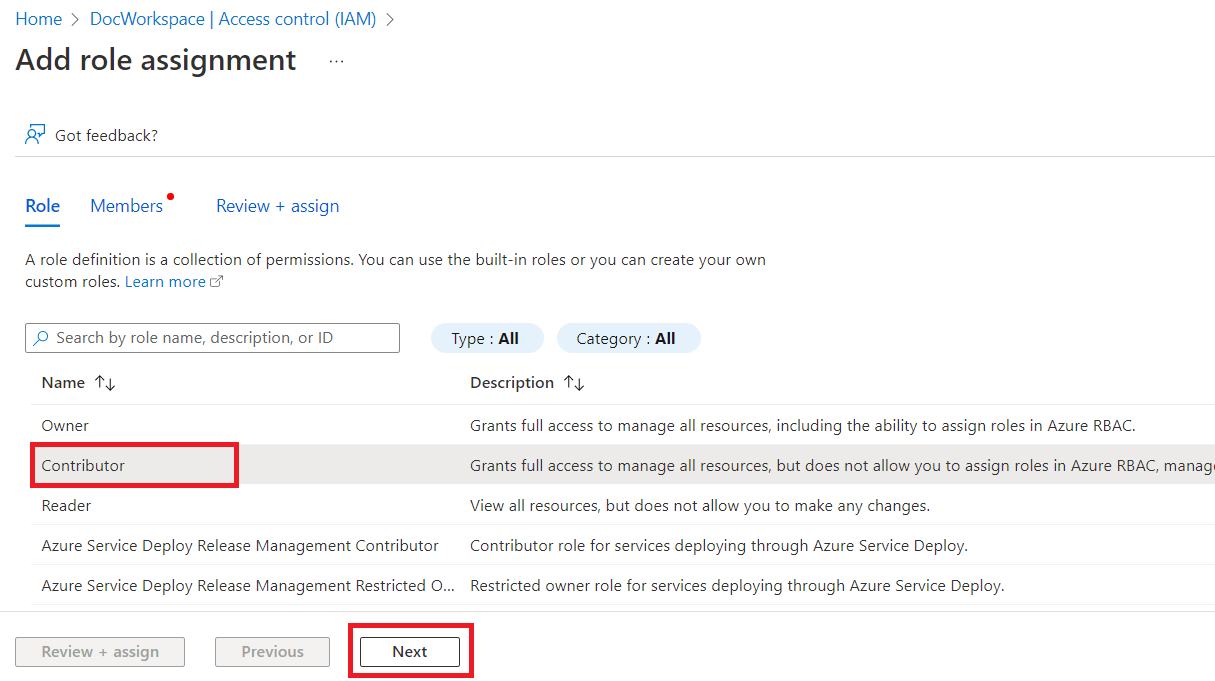
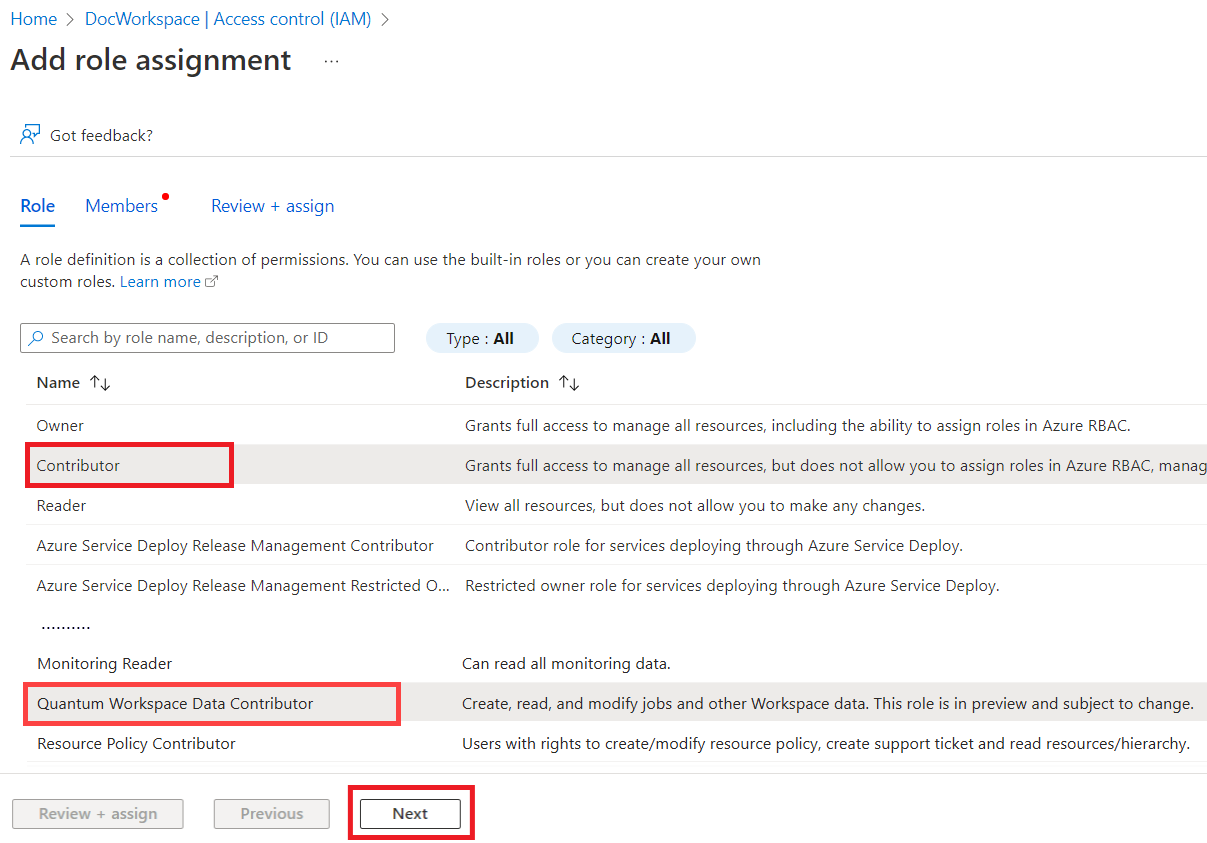
add Workspace Data Contributor role

diff --git a/articles/how-to-share-access-quantum-workspace.md b/articles/how-to-share-access-quantum-workspace.md
@@ -2,7 +2,7 @@
 author: bradben
 description: Learn how to share access to your Azure Quantum workspace. This guide helps you grant access to team members or students efficiently.
 ms.author: brbenefield
-ms.date: 11/13/2024
+ms.date: 12/13/2024
 ms.service: azure-quantum
 ms.subservice: qdk
 ms.topic: how-to
@@ -13,7 +13,7 @@ uid: microsoft.quantum.how-to.share-access-workspace
 
 # Share access to your Azure Quantum workspace
 
-Learn how to share access to your [Azure Quantum workspace](xref:microsoft.quantum.how-to.workspace). For example, you may need to grant your team members or students access to your workspace. 
+Learn how to share access to your [Azure Quantum workspace](xref:microsoft.quantum.how-to.workspace). For example, you may need to grant your team members or students access to your workspace. You can assign roles to users to control their access to your workspace. For example, a **Contributor** role can create, delete, or modify a workspace, whereas a **Quantum Workspace Data Contributor** role has limited permissions and primarily just submit and view jobs.
 
 We recommend using the instructions in this article if you need to grant access to 10 or less users. For a larger number of users, it may be easier for you or your IT department to create a group of users and then grant it access to your workspace. For instructions, see [Add a group to your Azure Quantum workspace](xref:microsoft.quantum.how-to.bulk-add-users).
 
@@ -28,14 +28,14 @@ You need the following prerequisites to share access to your Azure Quantum works
 
 Each user must have an account in your organization's Azure Active Directory before you can grant them access to your workspace. To add new users, you must be at least a **User Administrator**. For instructions, see [Add a new user](/azure/active-directory/fundamentals/add-users-azure-active-directory#add-a-new-user).
 
-## Add users as contributors to your Azure Quantum workspace
+## Add users to your Azure Quantum workspace
 
 1. Sign in to the [Azure portal](https://portal.azure.com) and navigate to your Azure Quantum workspace. You must be an **Owner** of the workspace in order to add users.
 
 1. Select **Access control (IAM)** from the left-side menu. Select **Add**, and then **Add role assignment**.
     :::image type="content" source="media/bulk-invite-users-add-assignment.png" alt-text="Screen shot showing how to add a new role assignment to your Azure Quantum workspace.":::
 
-1. The **Add role assignment** page opens. On the **Role** pane, select **Contributor** and then select **Next**. 
+1. The **Add role assignment** page opens. On the **Role** pane, select **Contributor** or **Quantum Workspace Data Contributor** and then select **Next**. 
 
     :::image type="content" source="media/bulk-invite-users-add-contributor.png" alt-text="Screen shot showing how to create a contributor to your Azure Quantum workspace.":::
 

diff --git a/articles/manage-workspace-access.md b/articles/manage-workspace-access.md
@@ -2,7 +2,7 @@
 author: bradben
 description: Learn about the different security principals and roles you can use to manage access to your Azure Quantum workspace.
 ms.author: brbenefield
-ms.date: 09/16/2024
+ms.date: 12/13/2024
 ms.service: azure-quantum
 ms.subservice: qdk
 ms.topic: conceptual
@@ -34,12 +34,13 @@ A security principal is an object that represents a user, group, service princip
 
 ### Role
 
-When you grant access to a security principal, you assign a [built-in role](/azure/role-based-access-control/built-in-roles) or create a [custom role](/azure/role-based-access-control/custom-roles). The most commonly used built-in roles are **Owner**, **Contributor**, and **Reader**.
+When you grant access to a security principal, you assign a [built-in role](/azure/role-based-access-control/built-in-roles) or create a [custom role](/azure/role-based-access-control/custom-roles). The most commonly used built-in roles are **Owner**, **Contributor**, **Quantum Workspace Data Contributor**,  and **Reader**.
 
 |Role|Access level|
 |--|--|
 |Owner|Grants full access to manage all resources, including the ability to assign roles in Azure RBAC.|
 |Contributor|Grants full access to manage all resources, but doesn't allow you to assign roles in Azure RBAC.|
+|Quantum Workspace Data Contributor|Grants access to submit and view jobs in the workspace, but doesn't allow you to create, delete, or modify a workspace.|
 |Reader|View all resources, but doesn't allow you to make any changes.|
 
 ### Scope
@@ -64,7 +65,7 @@ When you [create a new workspace](xref:microsoft.quantum.how-to.workspace), you 
 
 ### Subscription Owner
 
-Subscription owners can create workspaces using either the **Quick create** or **Advanced create** options. You can either choose a resource group and storage account that already exist under the subscription or create new ones. You also have the ability to [assign roles](#assign-roles) to other users.
+Subscription owners can create workspaces using either the **Quick create** or **Advanced create** options. You can either choose a resource group and storage account that already exists under the subscription or create new ones. You also have the ability to [assign roles](#assign-roles) to other users.
 
 ### Subscription Contributor
 

diff --git a/articles/bulk-add-users-to-a-workspace.md b/articles/bulk-add-users-to-a-workspace.md
@@ -2,7 +2,7 @@
 author: bradben
 description: Learn how to bulk add users to your Azure Quantum workspace using a CSV file. This guide simplifies user management for large teams. 
 ms.author: brbenefield
-ms.date: 11/13/2024
+ms.date: 12/13/2024
 ms.service: azure-quantum
 ms.subservice: qdk
 ms.topic: how-to
@@ -54,16 +54,19 @@ You need the following prerequisites to bulk add users to an Azure Quantum works
 
 1. Select **Create**. You should get a notification that you've successfully created your group.
 
-## Add your group as a contributor to your Quantum workspace
+## Add your group to your Quantum workspace
 
-1. Sign in to the [Azure portal](https://portal.azure.com). You must be an **Owner** of the workspace in order to add the group as a contributor.
+> [!NOTE]
+> You can add your group as a **Contributor** role or as a **Quantum Workspace Data Contributor** role. The Contributor role allows users to manage the workspace properties, whereas the Quantum Workspace Data Contributor role only allows users to submit and view jobs in the workspace. For more information, see [Manage access to your Azure Quantum workspace](xref:microsoft.quantum.how-to.manage-access-workspace).
+
+1. Sign in to the [Azure portal](https://portal.azure.com). You must be an **Owner** of the workspace in order to add the group.
 
 1. Navigate to your Azure Quantum workspace.
 
 1. Allow your group to access your workspace. Select **Access control (IAM)** from the left-side menu. Select **Add**, and then **Add role assignment**.
     :::image type="content" source="media/bulk-invite-users-add-assignment.png" alt-text="Screen shot showing how to add a new role assignment to your Azure Quantum workspace.":::
 
-1. The **Add role assignment** page opens. On the **Role** pane, select **Contributor** and then select **Next**. 
+1. The **Add role assignment** page opens. On the **Role** pane, select **Contributor** or **Quantum Workspace Data Contributor** and then select **Next**. 
 
     :::image type="content" source="media/bulk-invite-users-add-contributor.png" alt-text="Screen shot showing how to create a contributor to your Azure Quantum workspace.":::
 
